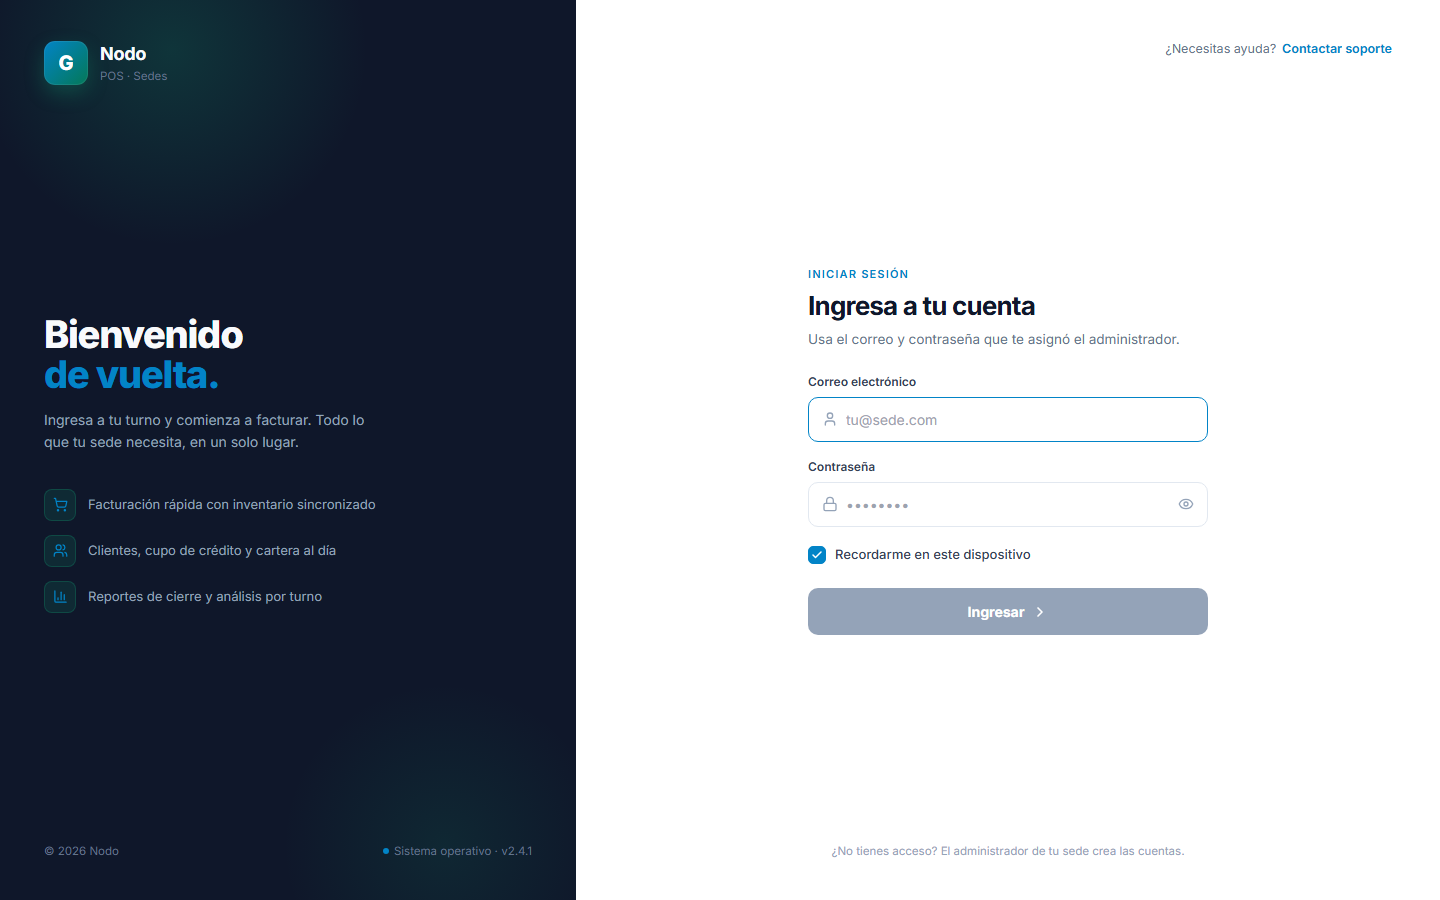
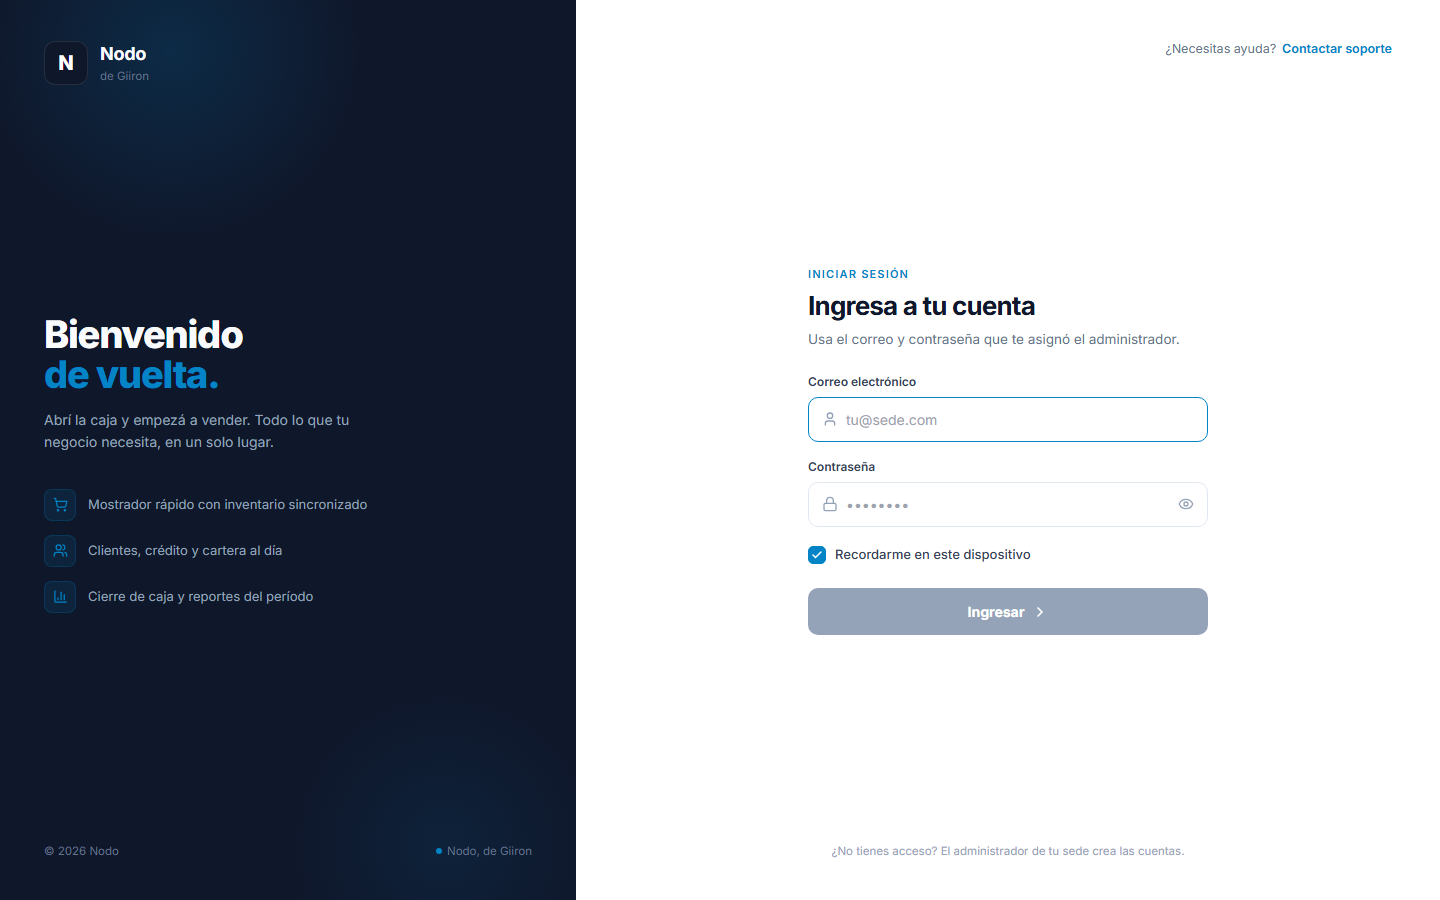
fix(login): A6 tanda 2 — cuatro afirmaciones falsas y el color de otro producto
Es la primera pantalla que ve un cliente y afirmaba cosas que el producto no
tiene. Las cuatro son copy y color, y por eso esta tanda es la mas barata.

- el tile decia "G": residuo de G-Nexo/gvento. La convencion retiro el prefijo
  —"sin guion y sin g"— y el producto es Nodo
- el tile y los halos del fondo eran el EMERALD DE VENTO (#10b981, literal, tres
  veces). Ademas de ser la marca de otro producto, §1.2 dice que verde es solo
  confirmacion y ninguna accion lo usa. Login es una de las cuatro superficies
  donde --brand esta permitida (§1.1): el tile usa --brand
- "cupo de credito": NO EXISTE en el esquema (deuda 40)
- "comienza a facturar" / "Facturacion rapida": el cliente NO factura
  electronicamente —es la fase F1, pospuesta— y por eso el ticket dice
  "Comprobante de venta" (deuda 62a)
- "POS · Sedes": POS es vocabulario de Vento; aca la pantalla se llama Mostrador
- "Sistema operativo · v2.4.1": version INVENTADA, sin artefacto que la
  respalde. Se quita en vez de inventar otra

⚠ SEGUNDA VEZ de esta clase en este repo, con la primera ya escrita en
CLAUDE.md: el LoginPage de Vento prometia "Gestion de mesas y comandas en tiempo
real" con los dos modulos podados. Misma pantalla, mismo mecanismo: el copy de
UI afirma cosas del producto y ningun verificador lo mira — tsc ve un string y
ESLint ve un string.
Lo accionable queda escrito en el archivo: una frase que promete una
funcionalidad se comprueba contra la funcionalidad, no contra la frase anterior.
[…]

diff --git a/src/pages/LoginPage.tsx b/src/pages/LoginPage.tsx
@@ -13,10 +13,29 @@ function Spinner() {
   )
 }
 
+/**
+ * 🔴 ESTE COPY SE VERIFICA CONTRA LO QUE EXISTE, NO SE HEREDA — A6 · tanda 2.
+ *
+ * La versión anterior prometía tres cosas y **dos eran falsas**:
+ *   · *"cupo de crédito"* — el cupo **no existe en el esquema** (deuda 40).
+ *   · *"Facturación rápida"* / *"comienza a facturar"* — el cliente **no factura
+ *     electrónicamente**; es la fase F1, pospuesta, y por eso el ticket dice
+ *     *"Comprobante de venta"* y no *"Factura"* (deuda 62a).
+ * La tercera decía *"por turno"*, que es el vocabulario que la deuda 38 renombra.
+ *
+ * ⚠ **Es la SEGUNDA vez que esta clase muerde en este repo.** La primera está
+ * escrita en `CLAUDE.md`: el `LoginPage` de Vento prometía *"Gestión de mesas y
+ * comandas en tiempo real"* con los dos módulos ya podados. Misma pantalla,
+ * mismo repo, mismo mecanismo — **el copy de UI afirma cosas del producto y
+ * ningún verificador lo mira**: `tsc` ve un string y ESLint ve un string.
+ *
+ * Lo accionable, y es de escritura: **una frase que promete una funcionalidad se
+ * comprueba contra la funcionalidad, no contra la frase anterior.**
+ */
 const FEATURES = [
-  { Icon: ShoppingCart, text: 'Facturación rápida con inventario sincronizado' },
-  { Icon: Users,        text: 'Clientes, cupo de crédito y cartera al día' },
-  { Icon: BarChart3,    text: 'Reportes de cierre y análisis por turno' },
+  { Icon: ShoppingCart, text: 'Mostrador rápido con inventario sincronizado' },
+  { Icon: Users,        text: 'Clientes, crédito y cartera al día' },
+  { Icon: BarChart3,    text: 'Cierre de caja y reportes del período' },
 ]
 
 export function LoginPage() {
@@ -74,22 +93,37 @@ export function LoginPage() {
           overflow: 'hidden',
         }}
       >
-        {/* Radial glows */}
-        <div style={{ position: 'absolute', top: '-20%', left: '-10%', width: 460, height: 460, background: 'radial-gradient(circle, rgba(16,185,129,.18) 0%, transparent 60%)', pointerEvents: 'none' }} />
-        <div style={{ position: 'absolute', bottom: '-15%', right: '-10%', width: 380, height: 380, background: 'radial-gradient(circle, rgba(16,185,129,.10) 0%, transparent 60%)', pointerEvents: 'none' }} />
+        {/* Halos del fondo. 🔴 Eran `rgba(16,185,129,…)` — el emerald de VENTO,
+            literal y dos veces. Pasan a la familia de acción, que es la fría del
+            sistema (§1.2) y la única que no comunica estado. */}
+        <div style={{ position: 'absolute', top: '-20%', left: '-10%', width: 460, height: 460, background: 'radial-gradient(circle, rgba(2,132,199,.18) 0%, transparent 60%)', pointerEvents: 'none' }} />
+        <div style={{ position: 'absolute', bottom: '-15%', right: '-10%', width: 380, height: 380, background: 'radial-gradient(circle, rgba(2,132,199,.10) 0%, transparent 60%)', pointerEvents: 'none' }} />
 
         {/* Logo */}
         <div style={{ display: 'flex', alignItems: 'center', gap: 12, position: 'relative', zIndex: 1 }}>
           <div style={{
             width: 44, height: 44, borderRadius: 11,
-            background: 'linear-gradient(135deg, var(--action), var(--success-700))',
+            // 🔴 Era `linear-gradient(--action → --success-700)`: VERDE, y §1.2
+            //    dice que **verde es sólo confirmación y ninguna acción lo usa**.
+            //    Peor: ese verde es el acento de VENTO (#10b981), o sea la marca
+            //    de otro producto en la primera pantalla de éste.
+            //    Login es una de las CUATRO superficies donde `--brand` está
+            //    permitida (§1.1), así que el tile usa `--brand`, que es lo que
+            //    corresponde.
+            background: 'var(--brand)',
             display: 'grid', placeItems: 'center',
-            color: 'var(--surface)', fontWeight: 800, fontSize: 20,
-            boxShadow: '0 0 0 1px rgba(255,255,255,.08) inset, 0 8px 20px rgba(16,185,129,.25)',
-          }}>G</div>
+            color: 'var(--brand-ink)', fontWeight: 800, fontSize: 20,
+            boxShadow: '0 0 0 1px rgba(255,255,255,.10) inset',
+          }}>N</div>
           <div>
+            {/* Decía "G" — residuo de `G-Nexo`/`gvento`. La convención de
+                CLAUDE.md retiró el prefijo: los productos son la raíz sola,
+                «sin guion y sin "g"». El producto es Nodo. */}
             <div style={{ fontWeight: 700, fontSize: 18, color: 'var(--surface-2)', letterSpacing: -0.3 }}>Nodo</div>
-            <div style={{ fontSize: 11.5, color: 'var(--ink-3)', marginTop: 1 }}>POS · Sedes</div>
+            {/* Decía "POS · Sedes": "POS" es vocabulario de Vento — acá la
+                pantalla se llama Mostrador. Y hacia afuera se dice
+                "Nodo, de Giiron" (convención de marca). */}
+            <div style={{ fontSize: 11.5, color: 'var(--ink-3)', marginTop: 1 }}>de Giiron</div>
           </div>
         </div>
 
@@ -100,7 +134,7 @@ export function LoginPage() {
             <span style={{ color: 'var(--action)' }}>de vuelta.</span>
           </h1>
           <p style={{ fontSize: 14, color: 'var(--ink-4)', marginTop: 14, marginBottom: 0, lineHeight: 1.55, maxWidth: 340 }}>
-            Ingresa a tu turno y comienza a facturar. Todo lo que tu sede necesita, en un solo lugar.
+            Abrí la caja y empezá a vender. Todo lo que tu negocio necesita, en un solo lugar.
           </p>
 
           {/* Features */}
@@ -109,10 +143,12 @@ export function LoginPage() {
               <div key={i} style={{ display: 'flex', alignItems: 'center', gap: 12 }}>
                 <div style={{
                   width: 32, height: 32, borderRadius: 8,
-                  background: 'rgba(16,185,129,.12)',
+                  // Eran dos emerald de Vento más. El ícono ya usaba --action;
+                  // el fondo y el borde ahora también, en la misma familia fría.
+                  background: 'rgba(2,132,199,.12)',
                   color: 'var(--action)',
                   display: 'grid', placeItems: 'center',
-                  border: '1px solid rgba(16,185,129,.22)',
+                  border: '1px solid rgba(2,132,199,.22)',
                   flexShrink: 0,
                 }}>
                   <Icon size={15} />
@@ -128,7 +164,11 @@ export function LoginPage() {
           <div>© 2026 Nodo</div>
           <div style={{ display: 'flex', alignItems: 'center', gap: 5 }}>
             <span style={{ width: 6, height: 6, borderRadius: '50%', background: 'var(--action)', display: 'inline-block' }} />
-            Sistema operativo · v2.4.1
+            {/* 🔴 Decía "Sistema operativo · v2.4.1": un número de versión
+                INVENTADO que no corresponde a ningún artefacto del repo. Un
+                número sin fuente es una opinión con dígitos, y acá encima lo lee
+                un cliente. Se quita en vez de inventar otro. */}
+            Nodo, de Giiron
           </div>
         </div>
       </div>
@@ -261,7 +301,8 @@ export function LoginPage() {
                 fontSize: 14, fontWeight: 700, color: 'var(--surface)',
                 fontFamily: 'inherit',
                 display: 'flex', alignItems: 'center', justifyContent: 'center', gap: 8,
-                boxShadow: (submitting || !email || !password) ? 'none' : '0 6px 16px rgba(16,185,129,.35)',
+                // Sombra del botón primario: era emerald bajo un fondo --action.
+                boxShadow: (submitting || !email || !password) ? 'none' : '0 6px 16px rgba(2,132,199,.35)',
                 transition: 'all .15s',
               }}
             >
